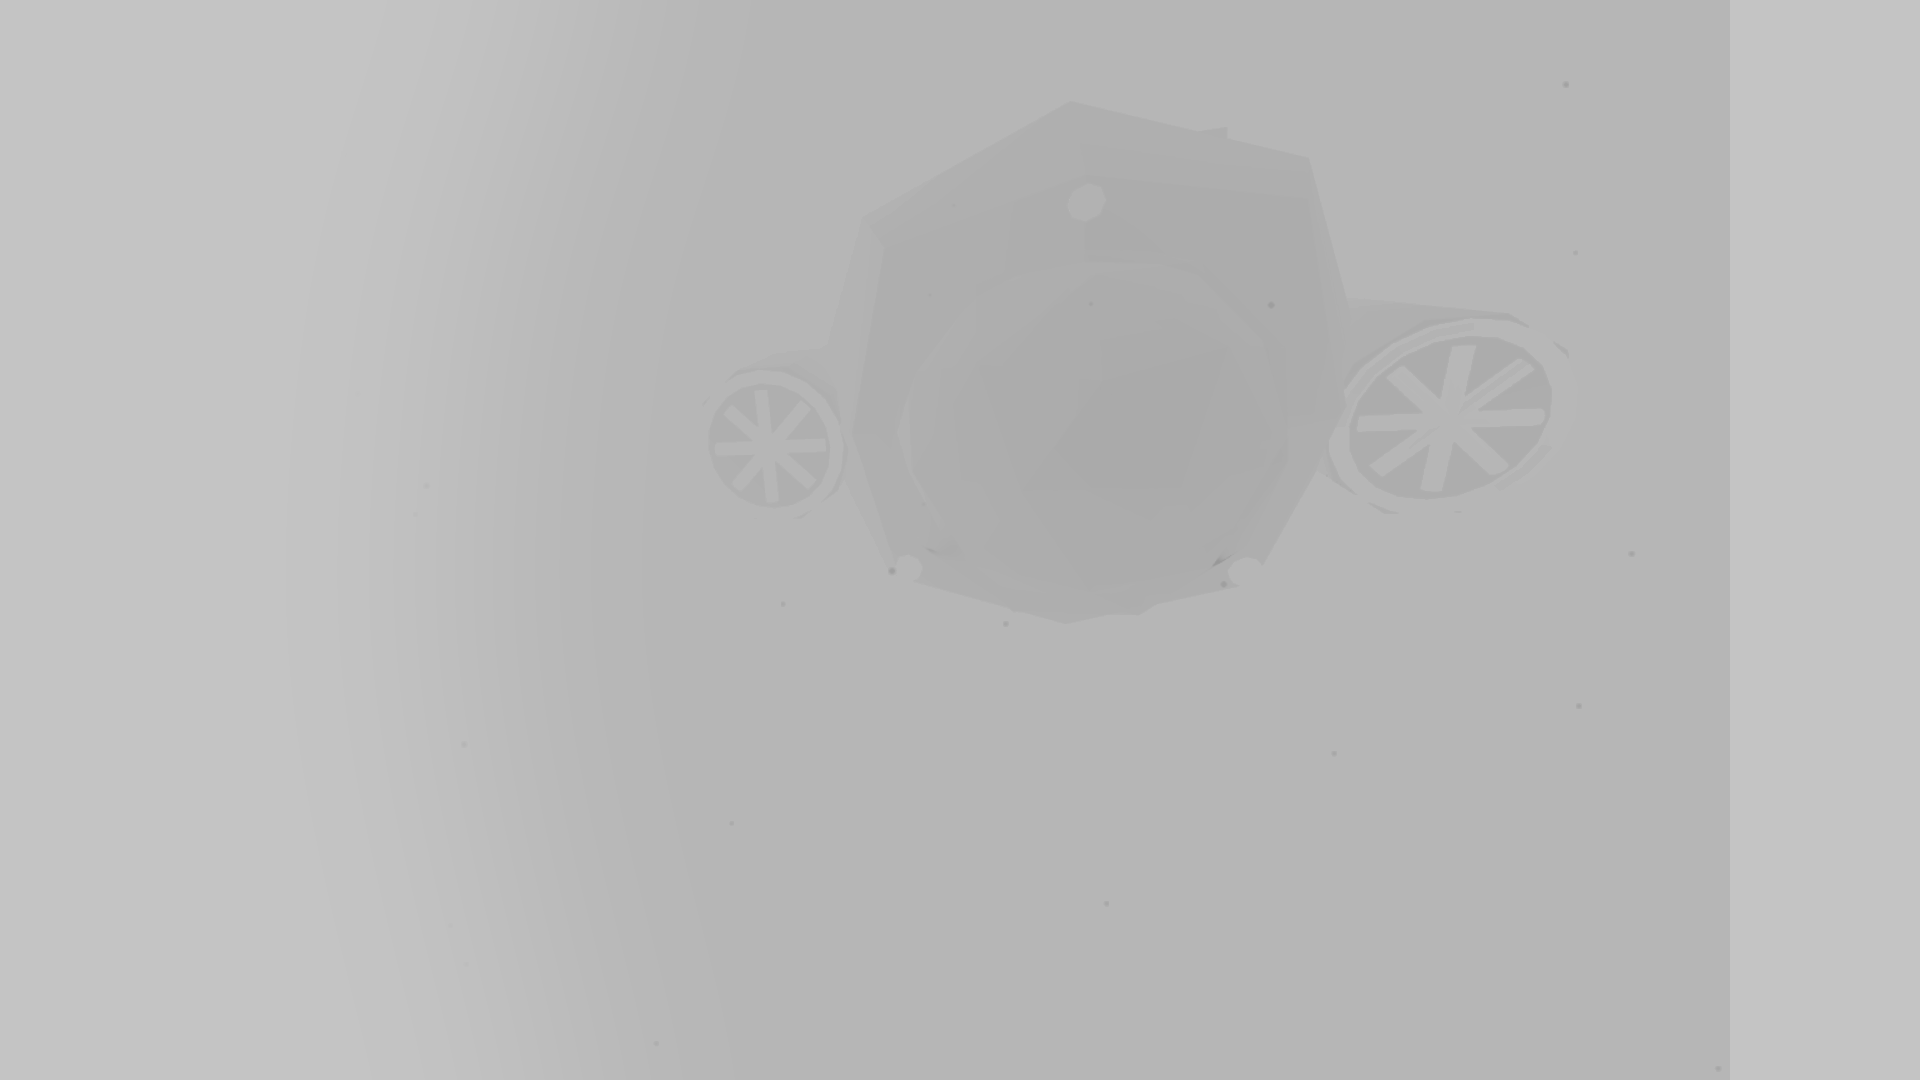
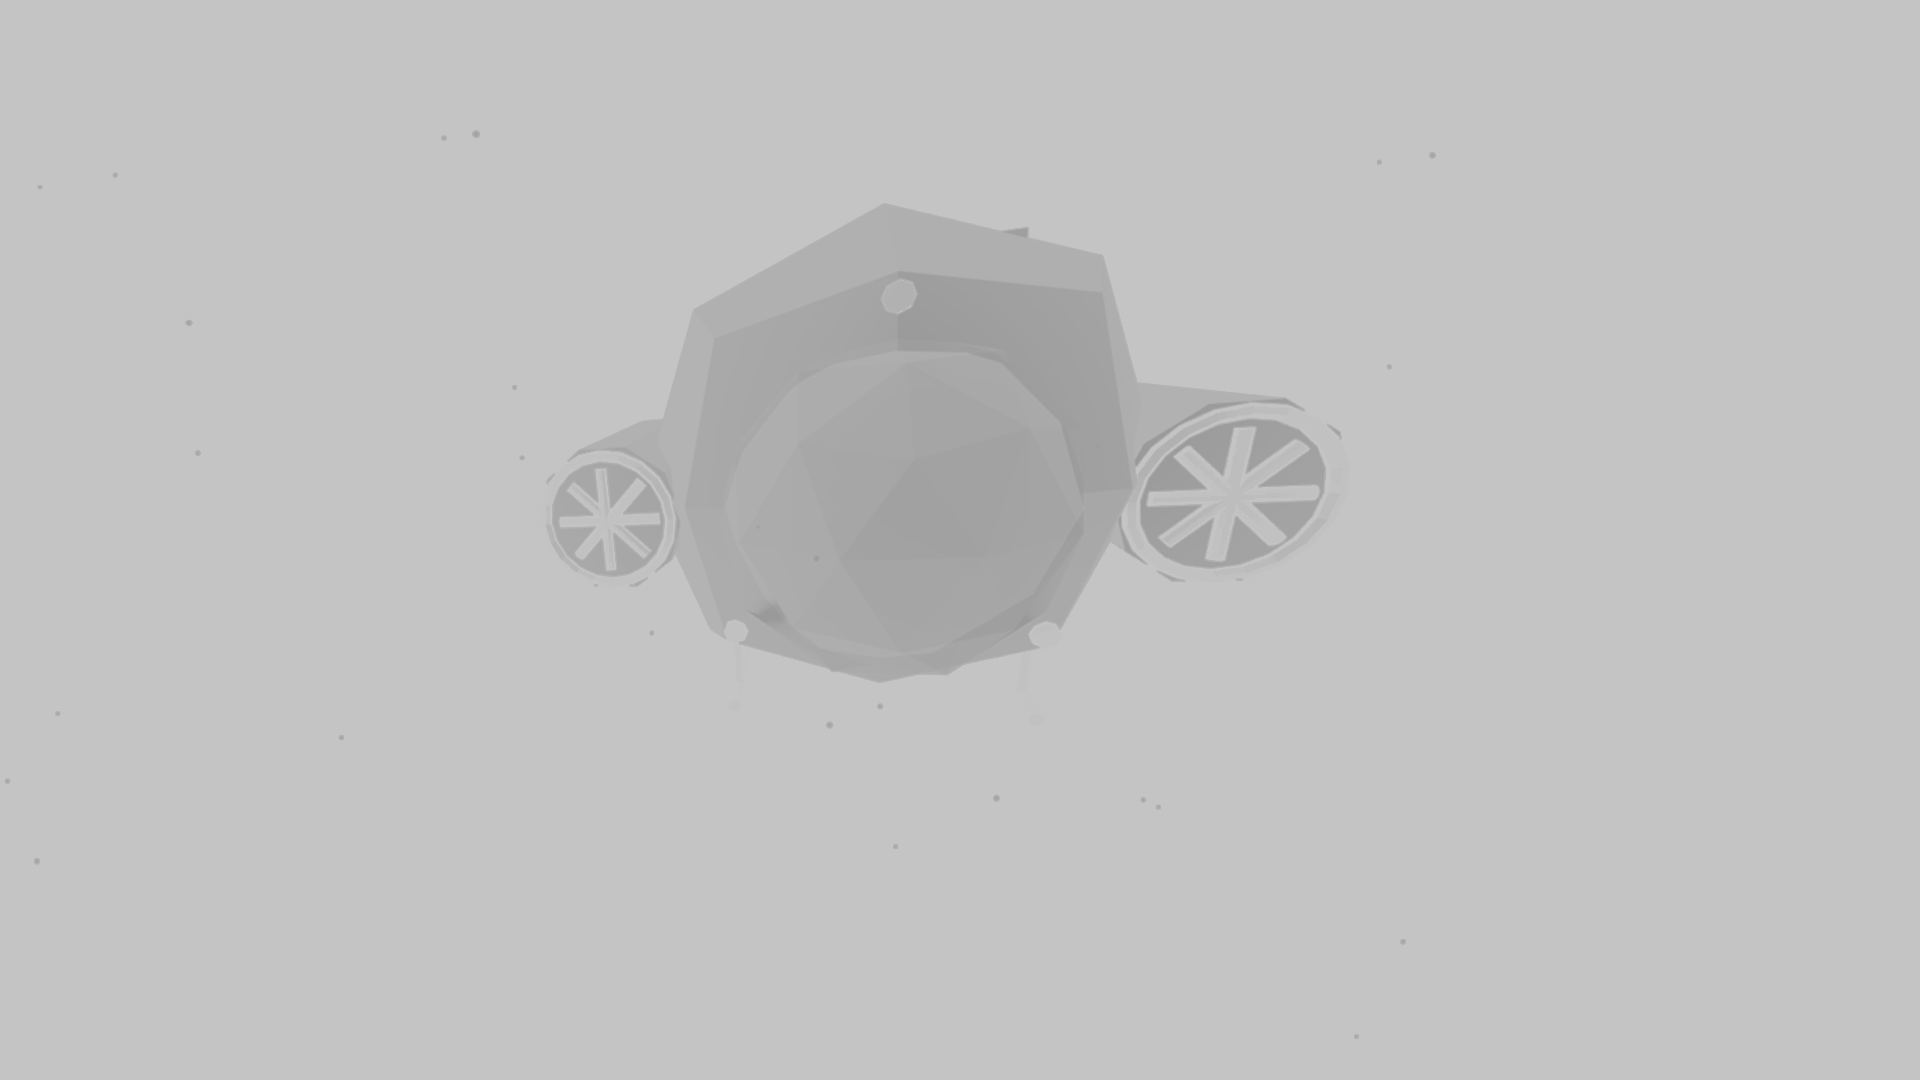
Fixed swipe links, main title animations, and abyss images

diff --git a/src/css/first_page/_main_title.scss b/src/css/first_page/_main_title.scss
@@ -10,7 +10,7 @@
     .red-squares-element {
        @for $i from 1 through 10 {
            &:nth-of-type(#{$i}) {
-               animation: square-entering 1s 800ms - 100ms * $i cubic-bezier(0,.75,.2,.99) both, square-hovering 5s -500ms * $i ease-in-out infinite;
+               animation: square-entering 1s 1500ms - 100ms * $i cubic-bezier(0,.75,.2,.99) both, square-hovering 5s - 500ms * $i ease-in-out infinite;
            }
        }
     }
@@ -18,7 +18,7 @@
     .grey-strokes-element {
        @for $i from 1 through 10 {
            &:nth-of-type(#{$i}) {
-               animation: square-entering 1s 800ms - 100ms * $i cubic-bezier(0,.75,.2,.99) both, square-hovering 5s -500ms * $i ease-in-out infinite;
+               animation: stroke-entering 1s 1500ms - 100ms * $i cubic-bezier(0,.75,.2,.99) both, stroke-hovering 5s - 500ms * $i ease-in-out infinite;
            }
        }
     }
@@ -64,12 +64,6 @@
             position: relative;
             z-index: -1;
             background-color: $color-red;
-
-            @for $i from 1 through 10 {
-                &:nth-of-type(#{$i}) {
-                    animation: square-entering 1s 800ms - 100ms * $i cubic-bezier(0,.75,.2,.99) both, square-hovering 5s -500ms * $i ease-in-out infinite;
-                }
-            }
 
             &:nth-of-type(1) {
                 width: calc(11 * var(--scaler ));
@@ -119,12 +113,6 @@
                 animation-delay: -700ms;
                 top: calc(22 * var(--scaler ));
                 --left: 0;
-            }
-
-            @for $i from 1 through 10 {
-                &:nth-of-type(#{$i}) {
-                    animation: stroke-entering 1s 1s - 100ms * $i cubic-bezier(0,.75,.2,.99) both, stroke-hovering 8s -600ms * $i ease-in-out infinite;
-                }
             }
         }
     }

diff --git a/src/js/ScriptLoader.ts b/src/js/ScriptLoader.ts
@@ -86,13 +86,10 @@ class ScriptLoader {
             const lab = new ProjectDisplayer(".photo-lab", ".lab", 10000);
     
             const pages = document.querySelectorAll(".page");
+            
+            const links = [...pages].map(el => (<HTMLElement>el).dataset.jsUrl)
     
-            const swipeLink = new SwipeLink([
-                null,
-                "profil.html",
-                "projects.html",
-                "lab.html"
-            ]);
+            const swipeLink = new SwipeLink(links);
     
             const activatePages = (i: number) => {
                 const page = pages[i];

diff --git a/src/js/Scroll/SwipeLink.ts b/src/js/Scroll/SwipeLink.ts
@@ -21,9 +21,7 @@ export class SwipeLink {
         const targetSection = this.linkArray[this.currentSlideIndex];
         if(targetSection != null) {
             DesactivateAll();
-            window.setTimeout(() => {
-                window.location.href = "./" + targetSection;
-            }, 1000)
+            window.location.href = targetSection;
         }
     }
 
